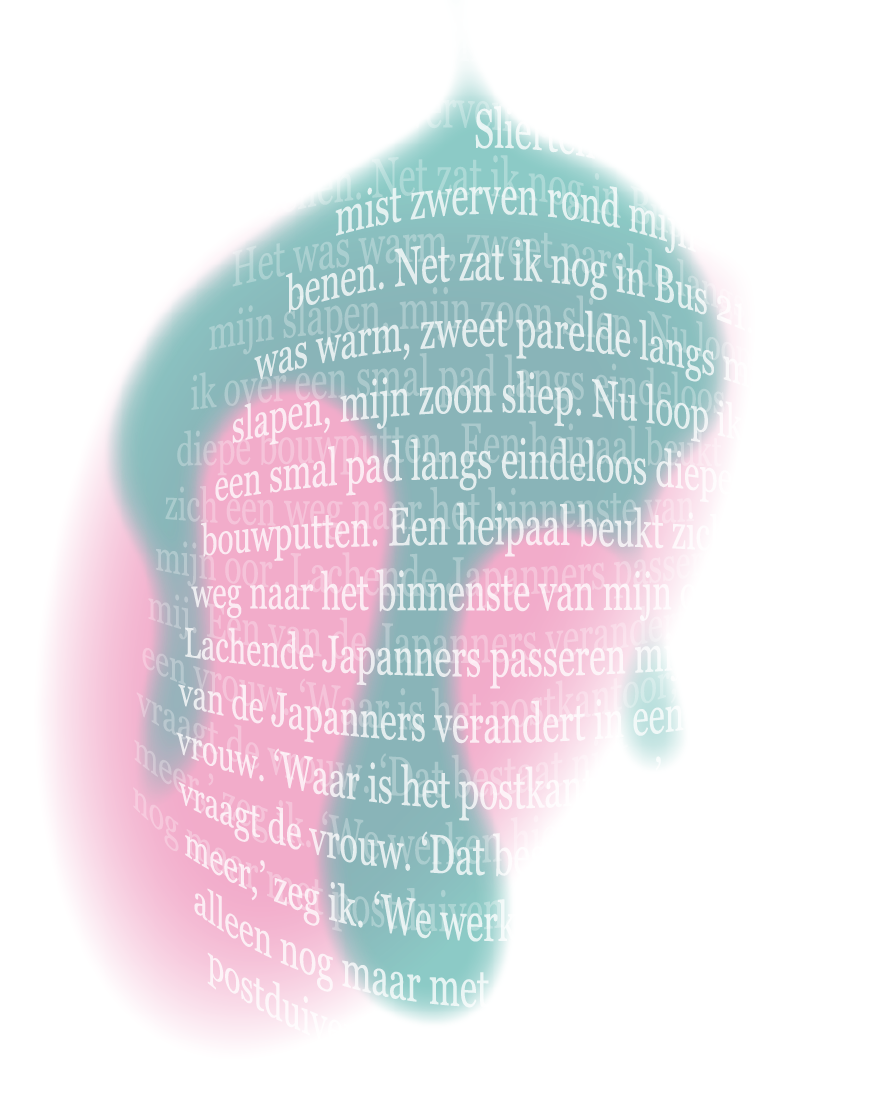
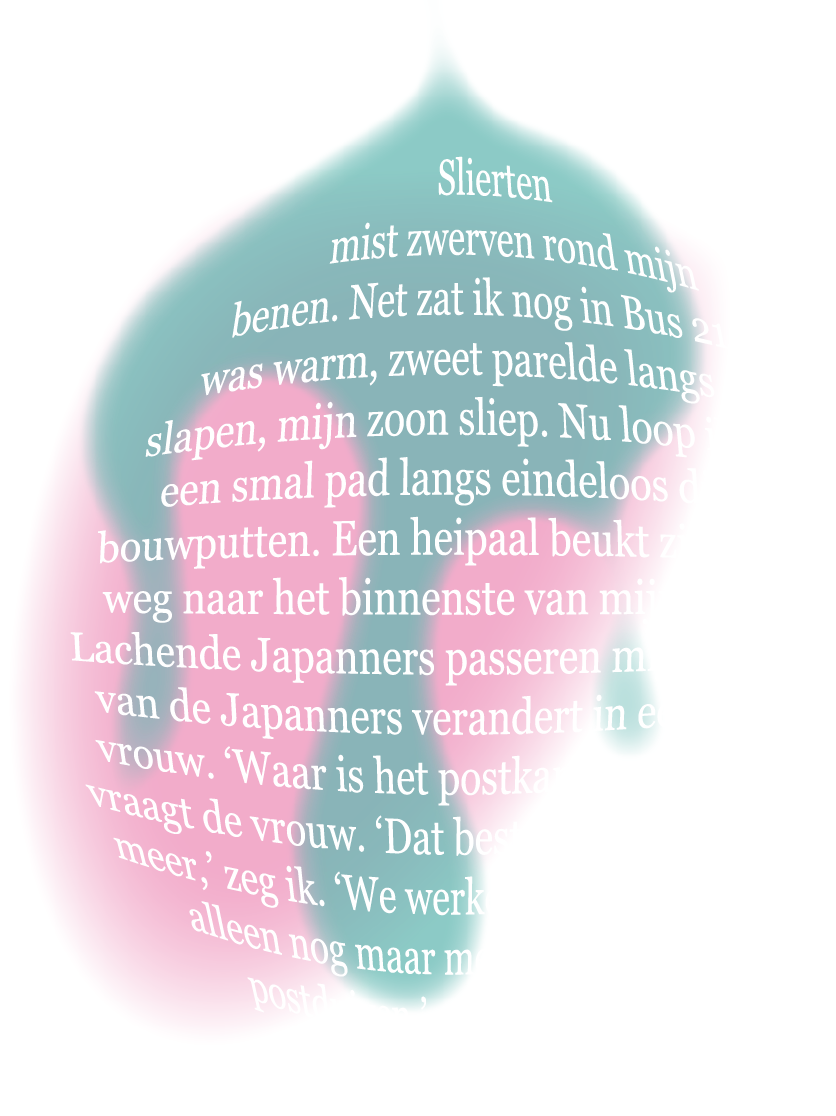
verhaal responsive

Changed region(s): [[0.0311, 0.0617, 0.8397, 0.9248]]

diff --git a/styles/transavia.css b/styles/transavia.css
@@ -1183,7 +1183,7 @@ main > button:nth-of-type(2) {
     animation: infinite;
     animation-duration: 5s;
     animation-name: float;
-    margin-left: 12.5%;
+    margin-left: 13.5%;
     position: sticky;
     top: 0;
     width: 33.4%;
@@ -1202,7 +1202,7 @@ main > button:nth-of-type(2) {
     animation: infinite;
     animation-duration: 5s;
     animation-name: float2;
-    margin-left: 52.8%;
+    margin-left: 52.7%;
     position: sticky;
     top: -1.9%;
     width: 40.8%;
@@ -1221,7 +1221,7 @@ main > button:nth-of-type(2) {
     animation: infinite;
     animation-duration: 5s;
     animation-name: float2;
-    margin-left: 34.5%;
+    margin-left: 33.5%;
     position: sticky;
     top: -1.9%;
 }
@@ -1322,7 +1322,7 @@ main > button:nth-of-type(2) {
     .tekst1 {
         width: 84%;
         margin-top: 0em;
-        margin-left: -12%;
+        margin-left: -11.9%;
     }
 
     .tekst2div {
@@ -1332,7 +1332,7 @@ main > button:nth-of-type(2) {
     .tekst2 {
         width: 95%;
         margin-top: 0em;
-        margin-left: 5%;
+        margin-left: 4.8%;
     }
 
     .tekst3div {
@@ -1342,7 +1342,7 @@ main > button:nth-of-type(2) {
     .tekst3 {
         width: 83%;
         margin-top: 0em;
-        margin-left: 2%;
+        margin-left: 1.8%;
     }
 
 }
@@ -1363,7 +1363,7 @@ main > button:nth-of-type(2) {
     .tekst1 {
         width: 52%;
         margin-top: 0em;
-        margin-left: 3%;
+        margin-left: 3.1%;
     }
 
     .tekst2div {
@@ -1383,7 +1383,7 @@ main > button:nth-of-type(2) {
     .tekst3 {
         width: 54%;
         margin-top: 0em;
-        margin-left: 27%;
+        margin-left: 25.7%;
     }
 }
 
